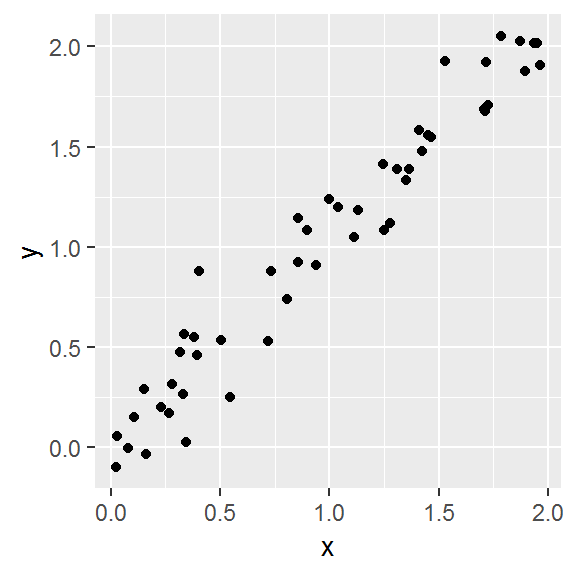
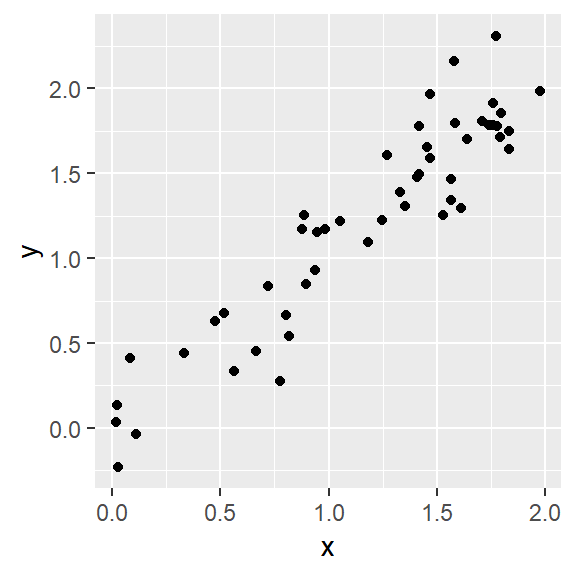
voll geil

diff --git a/docs/index.html b/docs/index.html
@@ -10,6 +10,7 @@
 
 <meta name="author" content="MSc Global Change Geography" />
 
+
 <title>Earth Observation</title>
 <!-- Material Design fonts -->
 <link rel="stylesheet" type="text/css" href="https://fonts.googleapis.com/css?family=Roboto:300,400,500,700">
@@ -96,7 +97,6 @@ $(document).ready(function () {
     <h1 class="title">Earth Observation</h1>
                 <h4 class="author">MSc Global Change Geography</h4>
                 <h4 class="date">Summer 2019</h4>
-
         </div>
     </div>
 </div>
@@ -248,7 +248,7 @@ data &lt;-<span class="st"> </span><span class="kw">data.frame</span>(<span clas
 <p><img src="index_files/figure-html/style-1.png" width="288" style="display: block; margin: auto;" /></p>
 <div class="sourceCode"><pre class="sourceCode r"><code class="sourceCode r"><span class="co"># Investigate correlation in the data</span>
 <span class="kw">cor</span>(data<span class="op">$</span>x, data<span class="op">$</span>y)</code></pre></div>
-<pre><code>[1] 0.971865</code></pre>
+<pre><code>[1] 0.9336196</code></pre>
 <hr />
 </div>
 <div id="help" class="section level2">
@@ -520,13 +520,13 @@ deg2rad &lt;-<span class="st"> </span><span class="cf">function</span>(deg){ (de
 <li>Produce cloud / cloud shadow masks of differing confidence levels</li>
 <li>Masking Landsat images</li>
 </ul>
+<hr />
+</div>
+<div id="landsat-data-quality" class="section level2">
+<h2>Landsat data quality</h2>
 <p>Which issues affect data quality of optical satellite images?</p>
 <p>next part of the exercise aims at a pixel-level description of image quality no need for dropping entire images, e.g. in case of high cloudiness, we can make use of parts of images, e.g. small unclouded regions BQA: Landsat quality band. what is it? definition: unsigned integers? bit-packed?</p>
 <p>we get all that from image metadata… where do we find the metadata?</p>
-<hr />
-</div>
-<div id="landsat-quality-bands" class="section level2">
-<h2>Landsat quality bands</h2>
 <p>How do we know if a pixel is affected by any of these?</p>
 <div class="figure">
 <img src="fig/s02_qa_band.png" alt="False-color representation of a cloudy Landsat Level 1 image (left) and a grey-scale visualization of the Landsat QA band (right)" style="width:60.0%" />
